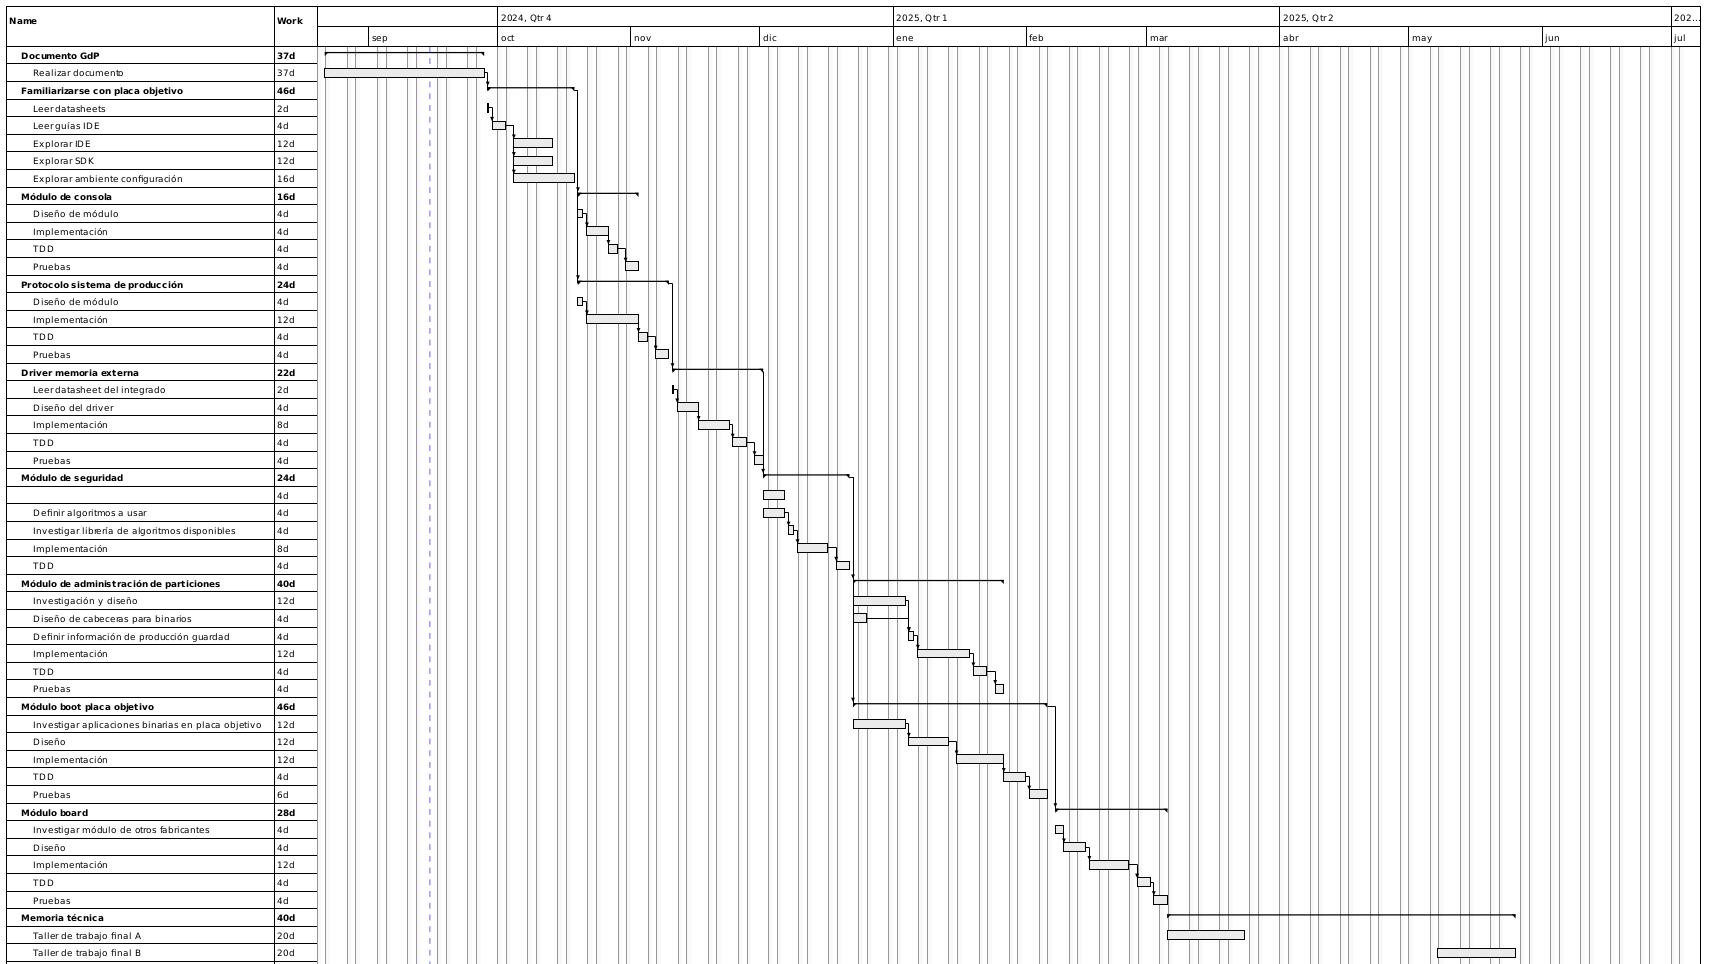
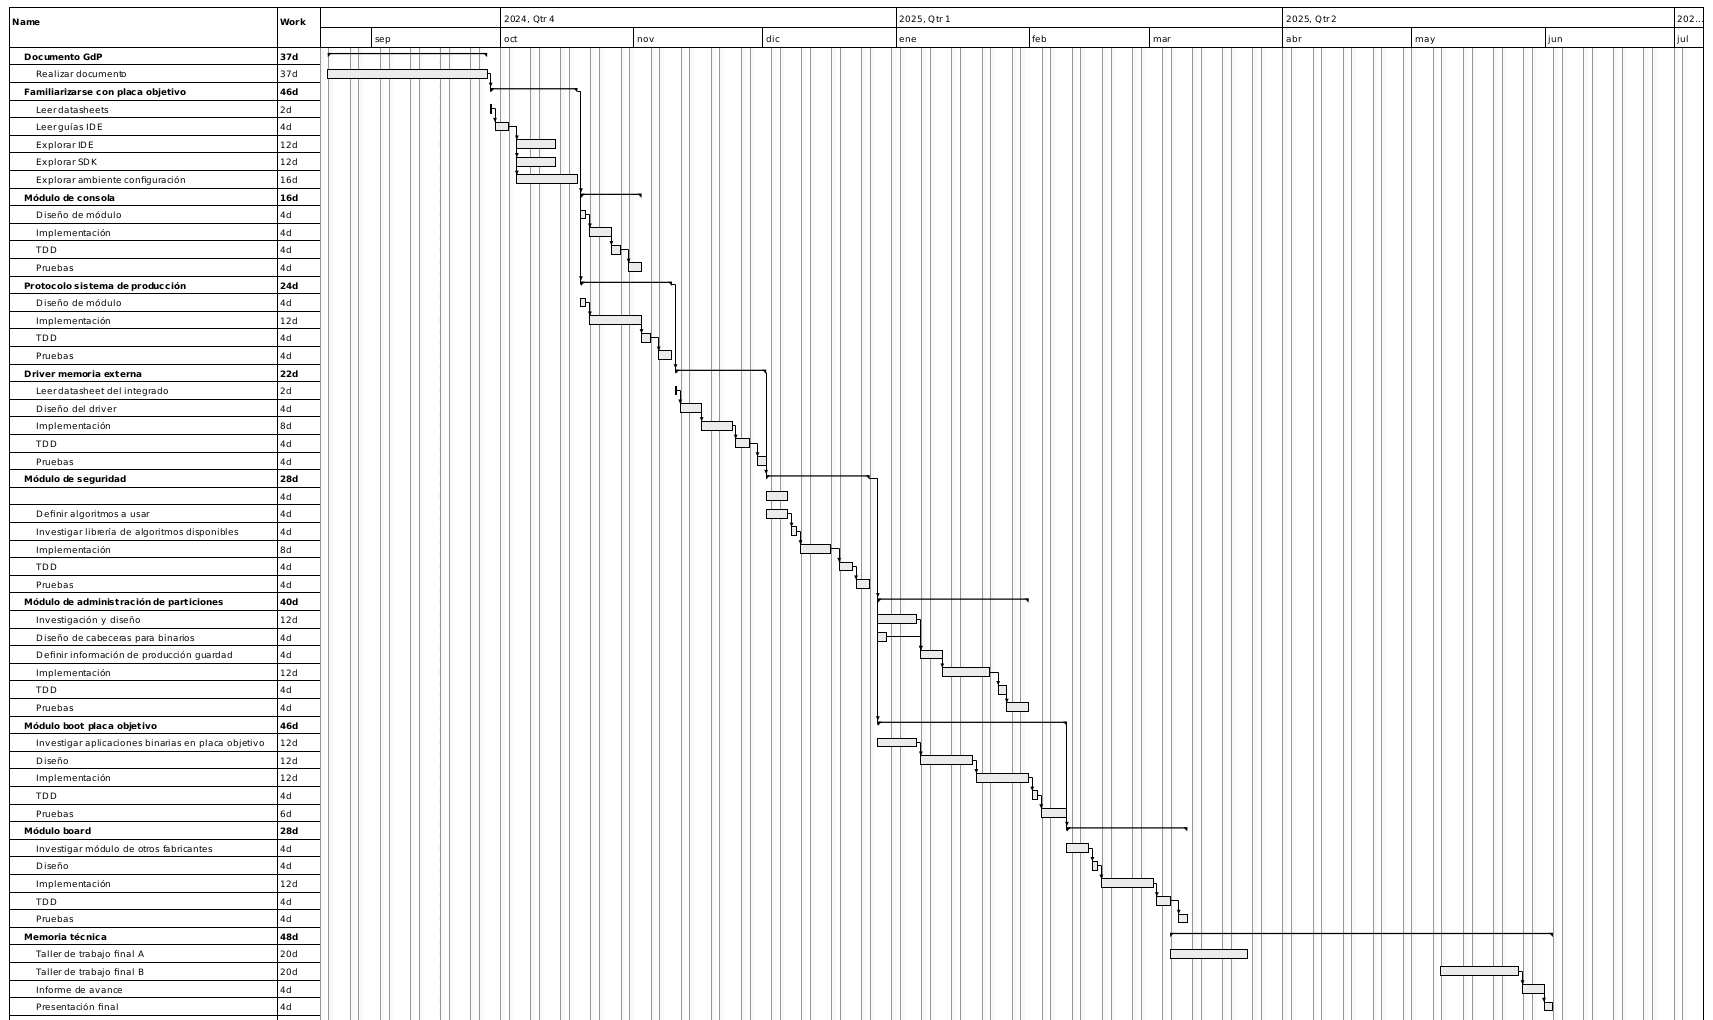
FIX: correcciones revisor

Changed region(s): [[0.0, 0.0, 0.9918, 1.0]]

diff --git a/charter.tex b/charter.tex
@@ -18,7 +18,7 @@
 \autor{Ing. Guido Ramírez}
 
 % El nombre del director y co-director, se puede usar el cualquier lugar del documento con el comando \supname y \cosupname y \pertesupname y \pertecosupname
-\director{Ms. Jonathan Cagua}
+\director{Esp. Ing. Jonathan Cagua}
 \pertenenciaDirector{Easymetering} 
 \codirector{} % para que aparezca en la portada se debe descomentar la opción codirector en los parámetros de documentclass
 \pertenenciaCoDirector{FIUBA}
@@ -60,7 +60,7 @@ Revisión & \multicolumn{1}{c|}{\cellcolor[HTML]{C0C0C0}Detalles de los cambios 
 0      & Creación del documento                                 &\fechaInicioName \\ \hline
 1      & Se completa hasta el punto 5                & 3 de septiembre de 2024 \\ \hline
 2      & Se completa hasta el punto 9 & 10 de septiembre de 2024 \\ \hline
-%3      & Se completa hasta el punto 12 inclusive                & {día} de {mes} de 202X \\ \hline
+3      & Se completa hasta el punto 12                & 17 de septiembre de 2024 \\ \hline
 %4      & Se completa el plan	                                 & {día} de {mes} de 202X \\ \hline
 
 % Si hay más correcciones pasada la versión 4 también se deben especificar acá
@@ -81,7 +81,7 @@ Buenos Aires, \fechaInicioName
 
 \vspace{2cm}
 
-Por medio de la presente se acuerda con el \authorname\hspace{1px} que su Trabajo Final de la \degreename\hspace{1px} se titulará ``\ttitle'' y consistirá en la integración del equipo mencionado a un sistema de producción por medio de un arrancador génerico, portable y escalable. El trabajo tendrá un presupuesto preliminar estimado de 600 horas, con fecha de inicio el \fechaInicioName\hspace{1px} y fecha de presentación pública el \fechaFinalName.
+Por medio de la presente se acuerda con el \authorname\hspace{1px} que su Trabajo Final de la \degreename\hspace{1px} se titulará ``\ttitle'' y consistirá en la integración del equipo mencionado a un sistema de producción por medio de un arrancador génerico, portable y escalable. El trabajo tendrá un presupuesto preliminar estimado de 624 horas y un costo estimado de \$9855, con fecha de inicio el \fechaInicioName\hspace{1px} y fecha de presentación pública el \fechaFinalName.
 
 Se adjunta a esta acta la planificación inicial.
 
@@ -139,7 +139,7 @@ En el diagrama de descomposición de la figura \ref{fig:sec1BootloaderSolution} 
 
 \begin{figure}[htpb]
 \centering 
-\includegraphics[width=.80\textwidth]{./Figuras/GdPDiagrams-sec1_solution.png}
+\includegraphics[width=.65\textwidth]{./Figuras/GdPDiagrams-sec1_solution.png}
 \caption{Diagrama de descomposición para bootloader propuesto.}
 \label{fig:sec1BootloaderSolution}
 \end{figure}
@@ -226,14 +226,14 @@ Para el desarrollo del presente proyecto se supone que:
 			\item El usuario puede cargar distintos binarios a la placa objetivo.
 			\item El usuario puede arrancar cualquier binario cargado a la placa objetivo.
 			\item El sistema debe poder volver al bootloader.
-			\item El sistema detecta cuando hubo una actualización de binarios.
+			\item El sistema detecta cuándo hubo una actualización de binarios.
 			\item Los binarios almacenados no son guardados en texto plano.
 			\item Los binarios, antes de ser almacenados, son encriptados usando el módulo de seguridad del sistema.
 		\end{enumerate}
 	\item Requerimientos de documentación:
 		\begin{enumerate}
-			\item Documentación usando Doxygen en todos los módulos, componentes o drivers
-			\item Documento de la materia 'Gestión de Proyectos'.
+			\item Documentación usando Doxygen en todos los módulos, componentes o drivers.
+			\item Documento de la materia Gestión de Proyectos.
 			\item Documento de la memoria técnica.
 		\end{enumerate}
 	\item Requerimiento de testing:
@@ -260,7 +260,7 @@ A continuación, se dan a conocer historias de usarios valoradas con \textit{sto
 	\begin{itemize}
 		\item D:3 + C:3 + R:2 $\rightarrow$ 8
 	\end{itemize}
-	\item ``Como miembro del departamento de firmware, es viable tener un sistema de arranque y administración de binarios genérico, para mantener nuestro código reutilizable y escalable"
+	\item ``Como miembro del departamento de firmware, aspiro a tener un sistema de arranque y administración de binarios genérico, para mantener nuestro código reutilizable y escalable"
 	\begin{itemize}
 		\item D:3 + C:2 + R:1 $\rightarrow$ 8
 	\end{itemize}
@@ -295,91 +295,94 @@ Los entregables del proyecto son:
 \section{9. Desglose del trabajo en tareas}
 \label{sec:wbs}
 
-En esta sección se desglosa el trabajo a realizar en una lista de tareas generales y específicas.
+En esta sección se desglosa el trabajo a realizar en una lista de tareas generales y específicas. La implementación de módulos de software, en su mayoría, tiene una sub-tarea de \textit{Test Driven Development} (TDD) por sus siglas en inglés. Esta sub-item no debe confundirse con el de pruebas, la cual consiste en el uso de la placa objetivo para validar el funcionamiento del módulo.
 
 \begin{enumerate}
-\item Documento 'Gestión de proyectos' (40 h)
+\item Documento de Gestión de proyectos (40 h).
 	\begin{enumerate}
-	\item Realizar documento (40 h)
+	\item Realizar documento (40 h).
 	\end{enumerate} 
-\item Familiarizarse con placa objetivo (84 h)
+\item Familiarizarse con placa objetivo (84 h).
 	\begin{enumerate}
-	\item Leer datasheets del SoC (4 h)
-	\item Leer guias para desarrolladores del IDE (8 h)
-	\item Familiarizarse con IDE (24 h)
-	\item Familiarizarse con el SDK del fabricante (24 h)
-	\item Familiarizarse con ambiente de configuración del fabricante (24h)
+	\item Leer datasheets del SoC (4 h).
+	\item Leer guias para desarrolladores del IDE (8 h).
+	\item Familiarizarse con IDE (24 h).
+	\item Familiarizarse con el SDK del fabricante (24 h).
+	\item Familiarizarse con ambiente de configuración del fabricante (24h).
 	\end{enumerate}
-\item Módulo de consola (32 h)
+\item Módulo de consola (32 h).
 	\begin{enumerate}
-	\item Diseño de módulo (8 h)
-	\item Implementación de funciones (8 h)
-	\item Testing (8 h)
-	\item Pruebas (8 h)
+	\item Diseño de módulo (8 h).
+	\item Implementación de funciones (8 h).
+	\item TDD (8 h).
+	\item Pruebas (8 h).
 	\end{enumerate}
-\item Protocolo de sistema de producción (48 h)
+\item Protocolo de sistema de producción (48 h).
 	\begin{enumerate}
-	\item Diseñar módulo para protocolo (8 h)
-	\item Implementar funciones (24 h)
-	\item Testing (8 h)
-	\item Pruebas (8 h)
+	\item Diseñar módulo para protocolo (8 h).
+	\item Implementar funciones (24 h).
+	\item TDD (8 h).
+	\item Pruebas (8 h).
 	\end{enumerate}
-\item Driver memoria externa (44 h)
+\item Driver memoria externa (44 h).
 	\begin{enumerate}
-	\item Leer documentación del integrado (4 h)
-	\item Diseño del driver	(8 h)
-	\item Implementación de funciones (16 h)
-	\item Testing (8 h)
-	\item Pruebas (8 h)
+	\item Leer documentación del integrado (4 h).
+	\item Diseño del driver	(8 h).
+	\item Implementación de funciones (16 h).
+	\item TDD (8 h).
+	\item Pruebas (8 h).
 	\end{enumerate}
-\item Módulo de seguridad (48 h)
+\item Módulo de seguridad (56 h).
 	\begin{enumerate}
-	\item Investigación de algoritmos usados en trabajos anteriores (8 h)
-	\item Definir algoritmos a usar (8 h)
-	\item Investigar librería de algoritmos disponible (8 h)
-	\item Implementación de funciones (16 h)
-	\item Testing (8 h)
+	\item Investigación de algoritmos usados en trabajos anteriores (8 h).
+	\item Definir algoritmos a usar (8 h).
+	\item Investigar librería de algoritmos disponible (8 h).
+	\item Implementación de funciones (16 h).
+	\item TDD (8 h).
+	\item Pruebas (8 h).
 	\end{enumerate}
-\item Módulo de administración de particiones (80 h)
+\item Módulo de administración de particiones (80 h).
 	\begin{enumerate}
-	\item Investigación y diseño de control particiones (24 h)
-	\item Diseño de cabecera para binarios (8 h)
-	\item Diseño de información de producción guardada (8 h)
-	\item Implementación de funciones (24 h)
-	\item Testing  (8 h)
-	\item Pruebas  (8 h)
+	\item Investigación y diseño de control particiones (24 h).
+	\item Diseño de cabecera para binarios (8 h).
+	\item Diseño de información de producción guardada (8 h).
+	\item Implementación de funciones (24 h).
+	\item TDD  (8 h).
+	\item Pruebas  (8 h).
 	\end{enumerate}
-\item Módulo de carga y ejecución de aplicaciones (88 h)
+\item Módulo de carga y ejecución de aplicaciones (88 h).
 	\begin{enumerate}
-	\item Investigar funcionamiento memoria en la palca (24 h)
-	\item Diseño de módulo (24 h)
-	\item Implementación de funciones (24 h)
-	\item Testing (8 h)
-	\item Pruebas (12 h)
+	\item Investigar funcionamiento memoria en la palca (24 h).
+	\item Diseño de módulo (24 h).
+	\item Implementación de funciones (24 h).
+	\item TDD (8 h).
+	\item Pruebas (12 h).
 	\end{enumerate}
-\item Módulo de board (56 h)
+\item Módulo de board (56 h).
 	\begin{enumerate}
-	\item Investigar módulos de board de otros fabricantes (8 h)
-	\item Diseño del módulo (8 h)
-	\item Implementación de funciones (24 h)
-	\item Testing  (8 h)
-	\item Pruebas  (8 h)
+	\item Investigar módulos de board de otros fabricantes (8 h).
+	\item Diseño del módulo (8 h).
+	\item Implementación de funciones (24 h).
+	\item TDD  (8 h).
+	\item Pruebas  (8 h).
 	\end{enumerate}
-\item Documento memoria técnica (80 h)
+\item Documento memoria técnica (96 h).
 	\begin{enumerate}
-	\item Taller de trabajo final A (40 h)
-	\item Taller de trabajo final B (40 h)
+	\item Taller de trabajo final A (40 h).
+	\item Taller de trabajo final B (40 h).
+	\item Informe de avance  (8 h).
+	\item Presentación final (8 h).
 	\end{enumerate} 
 \end{enumerate}
 
-Cantidad total de horas: 600 h.
+Cantidad total de horas: 624 h.
 
 \newpage
 
 \section{10. Diagrama de Activity On Node}
 \label{sec:AoN}
 
-En este sección se presenta el diagrama de \textit{Activity on None}. en la figura \ref{fig:AoN} se observa varias tareas distinguidas con dos etiquetas de colores. Las tareas de color amarillo son aquellas dirigidas a la escritura de documentos académicos necesarios para la culminación de la Carrera de Especialización de Sistemas Embebidos (CESE). Por otra parte, las azules son tareas enfocadas en investigación y desarrollo de la parte técnica del proyecto.
+En este sección se presenta el diagrama de \textit{Activity on Node} en la figura \ref{fig:AoN} se observa varias tareas con dos tonos de colores. Las tareas de color amarillo son aquellas dirigidas a la escritura de documentos académicos necesarios para la culminación de la Carrera de Especialización de Sistemas Embebidos (CESE). Por otra parte, las azules son tareas enfocadas en investigación y desarrollo de la parte técnica del proyecto.
 
 \begin{figure}[htpb]
 \centering 
@@ -388,12 +391,12 @@ En este sección se presenta el diagrama de \textit{Activity on None}. en la fig
 \label{fig:AoN}
 \end{figure}
 
-En la figura también se puede distinguir el camino crítico del proyecto. La  unidad de los tiempos \textit{t} en el diagrama corresponde a horas. El camino crítico trazado toma 448 h. Se infiere por definición, que el retraso de cualquiera de las tareas parte del camino crítico, llevará a una demora en todo el proyecto. Se puede notar que la actividades técnicas como la familarización con el SoC, implementación de driver de memoria externa, módulo de seguridad, arranque de placa objetivo y board forman parte de la ruta crítica y son parte de la propuesta de valor del proyecto. Por último, realizar la memoria técnica, necesaria para la culminiación de la especialización, es crítica dentro de las actividades desglosadas.
+En la figura también se puede distinguir el camino crítico del proyecto. La  unidad de los tiempos \textit{t} en el diagrama corresponde a horas. El camino crítico trazado toma 472 h. Se infiere por definición, que el retraso de cualquiera de las tareas parte del camino crítico llevará a una demora en todo el proyecto. Se puede notar que la actividades técnicas como la familarización con el SoC, implementación de driver de memoria externa, módulo de seguridad, arranque de placa objetivo y board forman parte de la ruta crítica y son parte de la propuesta de valor del proyecto. Por último, realizar la memoria técnica, necesaria para la culminiación de la especialización, es crítica dentro de las actividades desglosadas.
 
 \section{11. Diagrama de Gantt}
 \label{sec:gantt}
 
-En el diagrama de Gantt mostrado en la figura \ref{fig:diagGantt} se puede apreciar de manera detallada la estructura de las tarea y sus dependencias. Se da a conocer una fecha estimada para la culminación del proyecto, la primera quincena de julio del 2025. 
+En el diagrama de Gantt mostrado en la figura \ref{fig:diagGantt} se puede apreciar de manera detallada la estructura de las tarea y sus dependencias. Se da a conocer una fecha estimada para la culminación del proyecto, la primera quincena de junio del 2025. 
 
 \begin{landscape}
 \begin{figure}[htpb]
